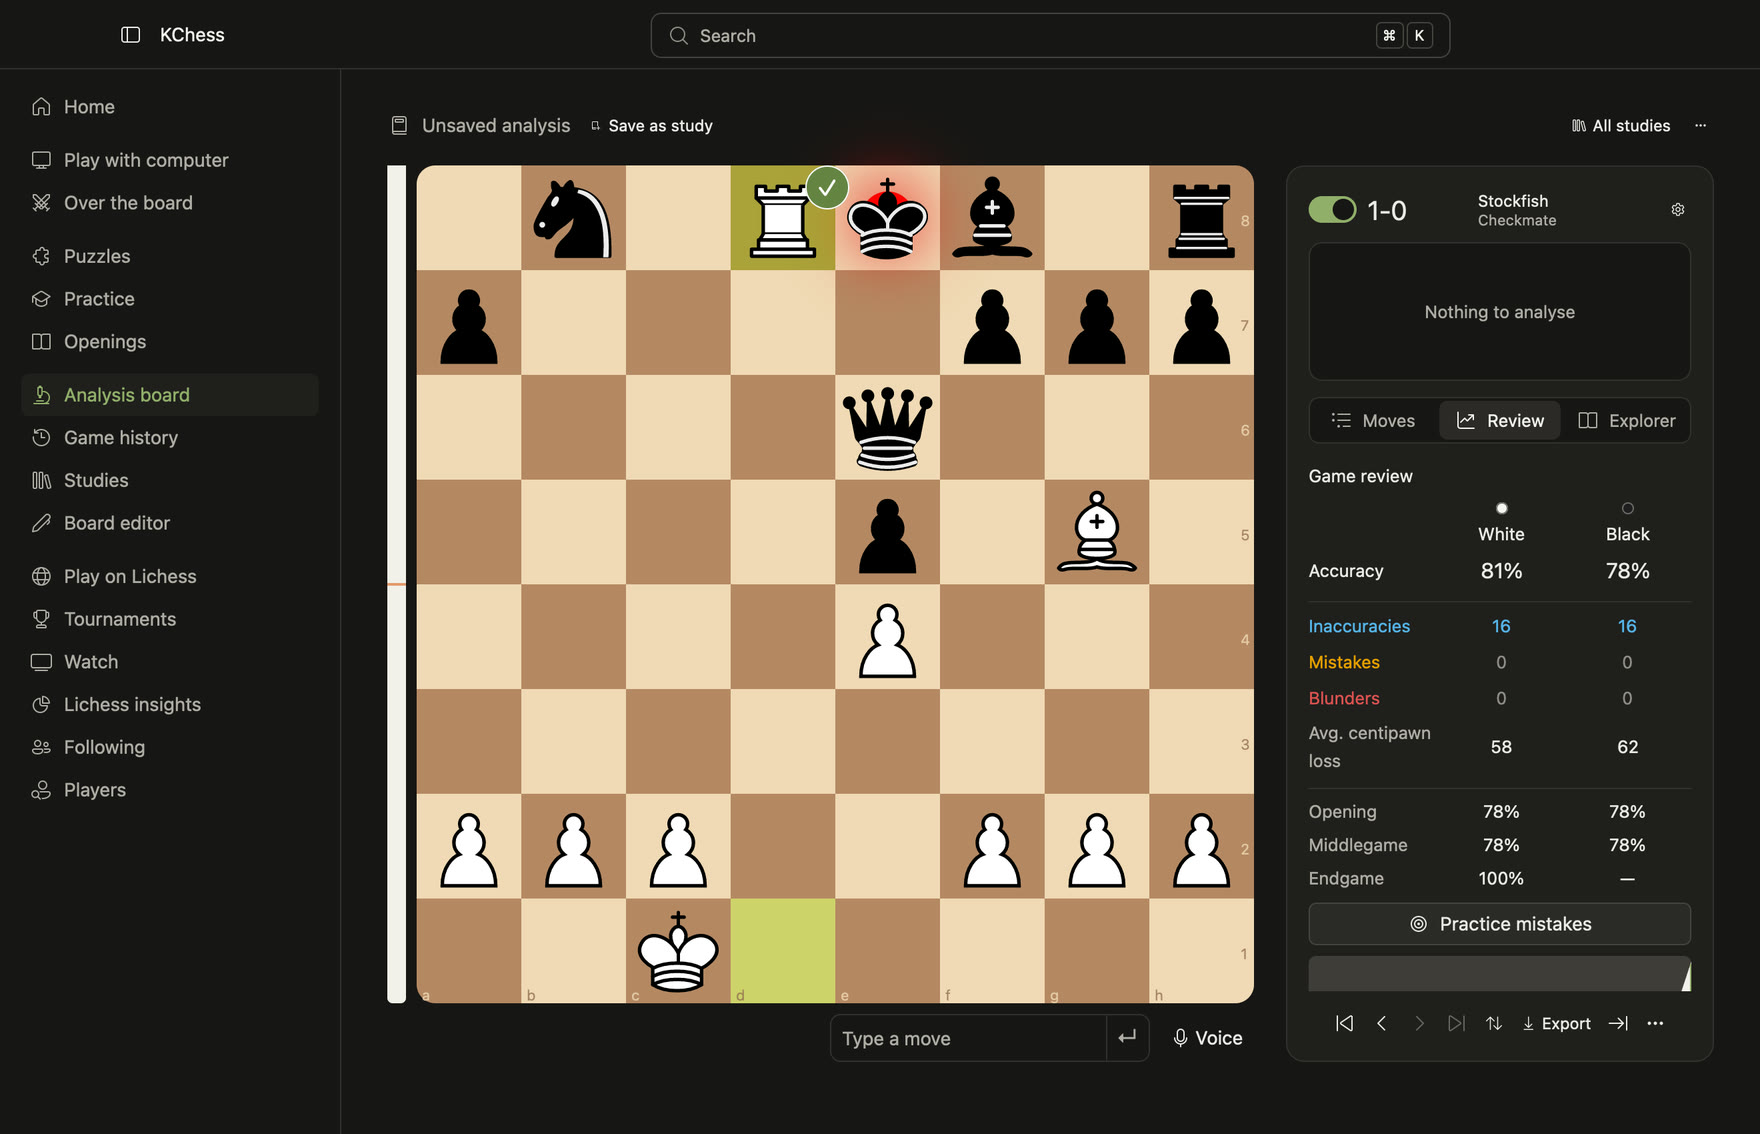
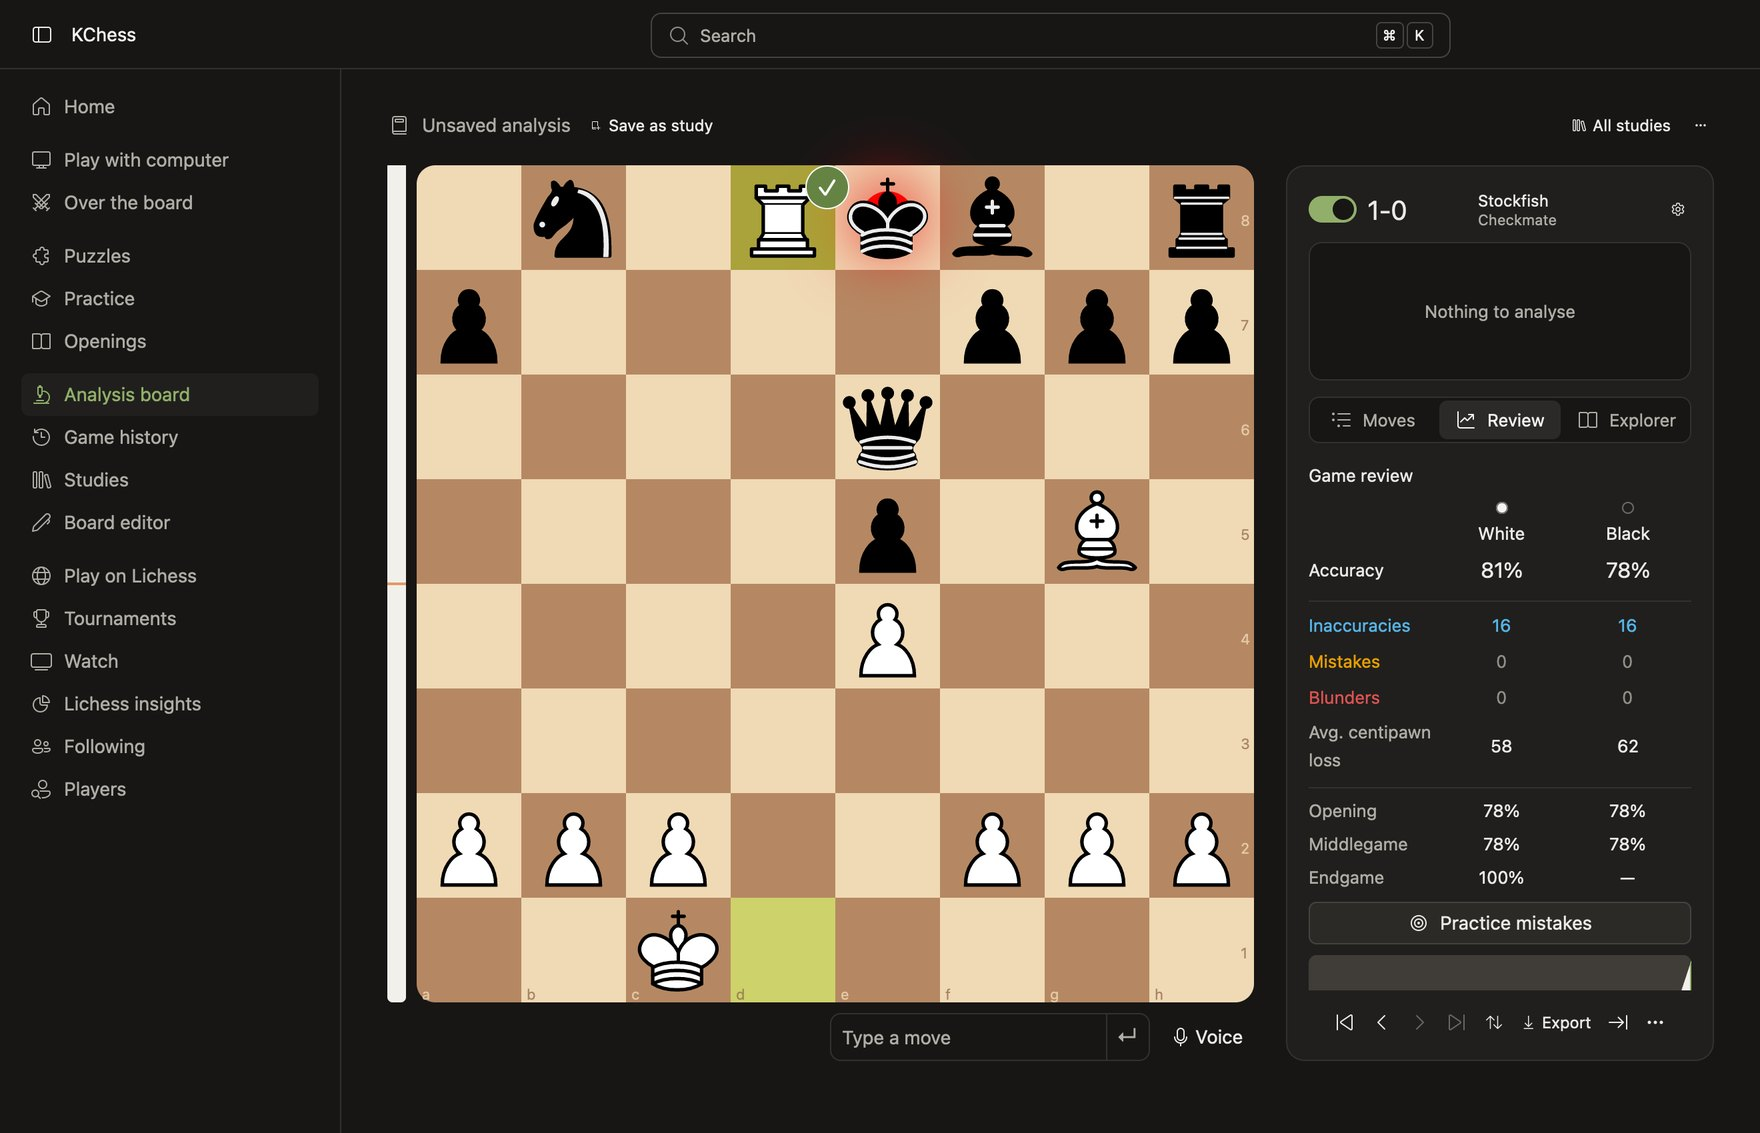
Landing page screenshots without a bezel, toggle at the left
The screenshots sit flat with a thin edge, like the window itself, instead of in a tilted gradient
frame. The sidebar toggle and title move from beside the macOS window buttons to the window's left
edge, in line with the sidebar's icons.

diff --git a/site/style.css b/site/style.css
@@ -336,26 +336,18 @@ code {
 .hero-shot {
   margin: 64px auto 0;
   max-width: 1100px;
-  perspective: 2000px;
 }
 
+/* The screenshot as it is: the app's own window edge, no bezel. */
 .shot-frame {
   margin: 0;
-  padding: 8px;
-  border-radius: var(--radius-lg);
-  background: linear-gradient(180deg, rgba(255, 236, 205, 0.14), rgba(255, 236, 205, 0.03));
-  box-shadow: 0 40px 120px -40px rgba(216, 162, 63, 0.35), 0 30px 80px -30px rgba(0, 0, 0, 0.9);
-}
-
-.hero-shot .shot-frame {
-  transform: rotateX(10deg);
-  transform-origin: 50% 0;
 }
 
 .shot-frame img {
   width: 100%;
-  border-radius: calc(var(--radius-lg) - 6px);
-  border: 1px solid var(--border);
+  border-radius: var(--radius);
+  border: 1px solid var(--border-strong);
+  box-shadow: 0 30px 80px -30px rgba(0, 0, 0, 0.9);
 }
 
 /* Sections */
@@ -722,10 +714,6 @@ kbd {
     margin-top: 44px;
   }
 
-  .hero-shot .shot-frame {
-    transform: none;
-  }
-
   .section {
     padding: 80px 0;
   }
@@ -752,9 +740,5 @@ kbd {
 
   .piece {
     animation: none;
-  }
-
-  .hero-shot .shot-frame {
-    transform: none;
   }
 }

diff --git a/README.md b/README.md
@@ -160,7 +160,8 @@ fills `{{version}}` with the latest published release, after checking that relea
 installer the page links to, and copies the app icon beside the page. The screenshots in
 `site/screenshots/` come from `KCHESS_SCREENSHOTS=<dir> KCHESS_E2E_LICHESS=https://lichess.org
 cargo test -p kchess-gpui e2e::screens::every_screen_with_content -- --ignored` (`content-dark`),
-cropped above the sidebar's Development build badge.
+cropped above the sidebar's Development build badge, with the sidebar toggle and title moved from
+beside the macOS window buttons to the window's left edge, in line with the sidebar's icons.
 
 ## Features
 
